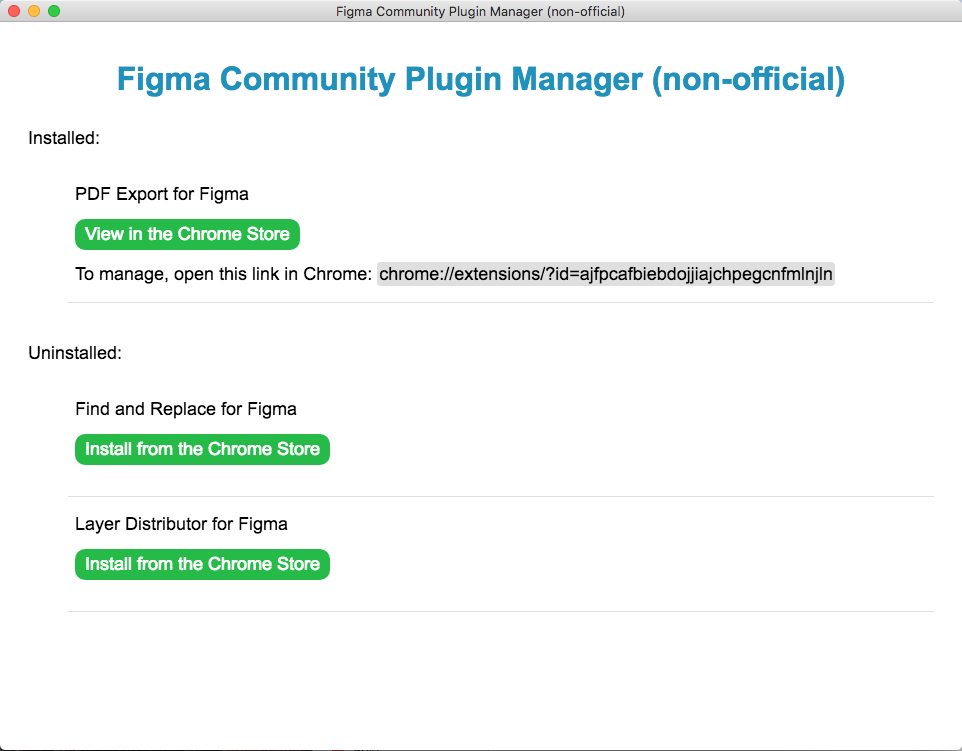
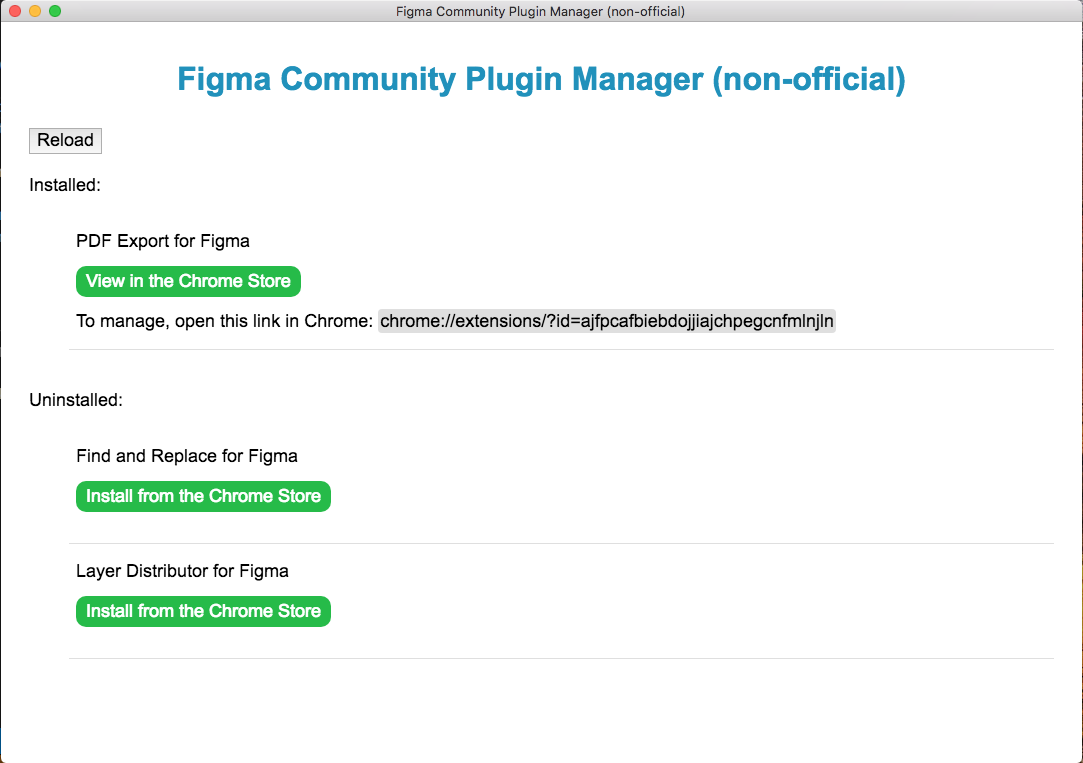
Changes: - fix bug in window - Update screenshoot - Update .gitignore

diff --git a/src/index.js b/src/index.js
@@ -1,9 +1,11 @@
 const { app, BrowserWindow, ipcMain } = require('electron')
 const { startManager } = require('./extensionManager')
 
+let win
+
 async function createWindow () {
   await startManager()
-  const win = new BrowserWindow({ width: 800, height: 600 })
+  win = new BrowserWindow({ width: 800, height: 600 })
   win.webContents.openDevTools()
   win.loadFile('src/renderer/index.html')
   win.on('close', () => {

diff --git a/src/renderer/index.html b/src/renderer/index.html
@@ -8,7 +8,9 @@
 </head>
 <body>
     <h1 id="title">Figma Community Plugin Manager (non-official)</h1>
-    <button id="reload" onclick="refresh()">Reload</button>
+    <div>
+        <button id="reload" onclick="refresh()">Reload</button>
+    </div><br>
     Installed:
     <ul id="installedExtsList" class="extList"></ul>
     Uninstalled:
